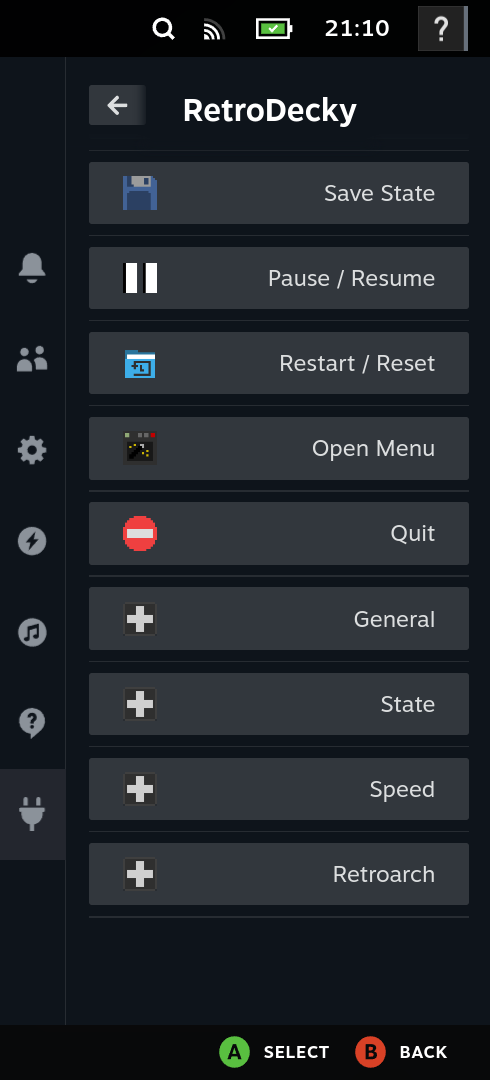
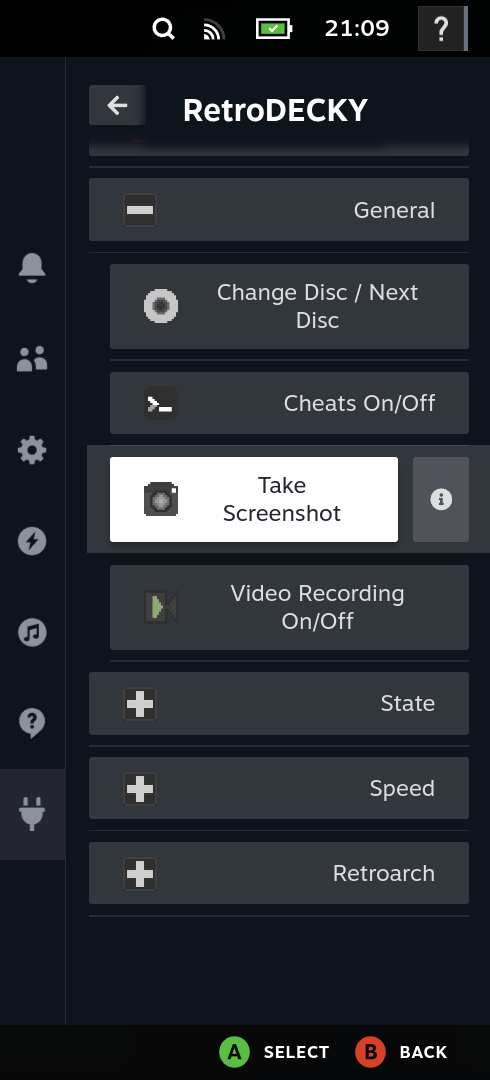
Updated readme, screenshots and added a small fix

diff --git a/src/components/settings.tsx b/src/components/settings.tsx
@@ -43,7 +43,7 @@ export const Settings = () => {
             showSettings && <div style={{ marginTop: '10px' }}>
                 <ToggleField
                     label="Auto Start RetroDECK"
-                    description={`Automatically launch RetroDECK when Steam starts in Game Mode. RetroDECK must exist as Steam Game with the name "RetroDECK".`}
+                    description={`Automatically launch RetroDECK when Steam starts in Game Mode. This launches any steam game which is called "RetroDECK" in your library.`}
                     checked={autoStartEnabled}
                     onChange={setAutoStartEnabled}
                 />

diff --git a/src/app-utils.ts b/src/app-utils.ts
@@ -16,7 +16,7 @@ const RETRODECK_APP_NAME = 'RetroDECK';
 
 export function findRetroDECKApp(): AppOverview | undefined {
   return appStore.allApps.find(
-    (app) => app.display_name.toLowerCase().trim() === RETRODECK_APP_NAME.toLowerCase().trim()
+    (app) => app.display_name.trim() === RETRODECK_APP_NAME.trim()
   );
 }
 

diff --git a/README.md b/README.md
@@ -17,7 +17,9 @@ The goal of this plugin is to provide a menu which displays only the actions rel
 
 ## Features
 - **Emulator Actions** - Displays actions specifically for the emulator
-- **Action Triggering** - Triggering emulator actions via buttons instead of hotkeys  
+- **Action Triggering** - Triggering emulator actions via buttons instead of hotkeys
+- **View Controller Hotkeys** - Show controller hotkeys for actions which controller hotkeys are mapped to them
+- **Auto Start RetroDECK** - Automatically start RetroDECK when Steam starts in Game Mode
 - **PDF Manual Viewer** - View game manuals while staying in game
 - **Game info** - View basic game info such as title, system and and an image
 
